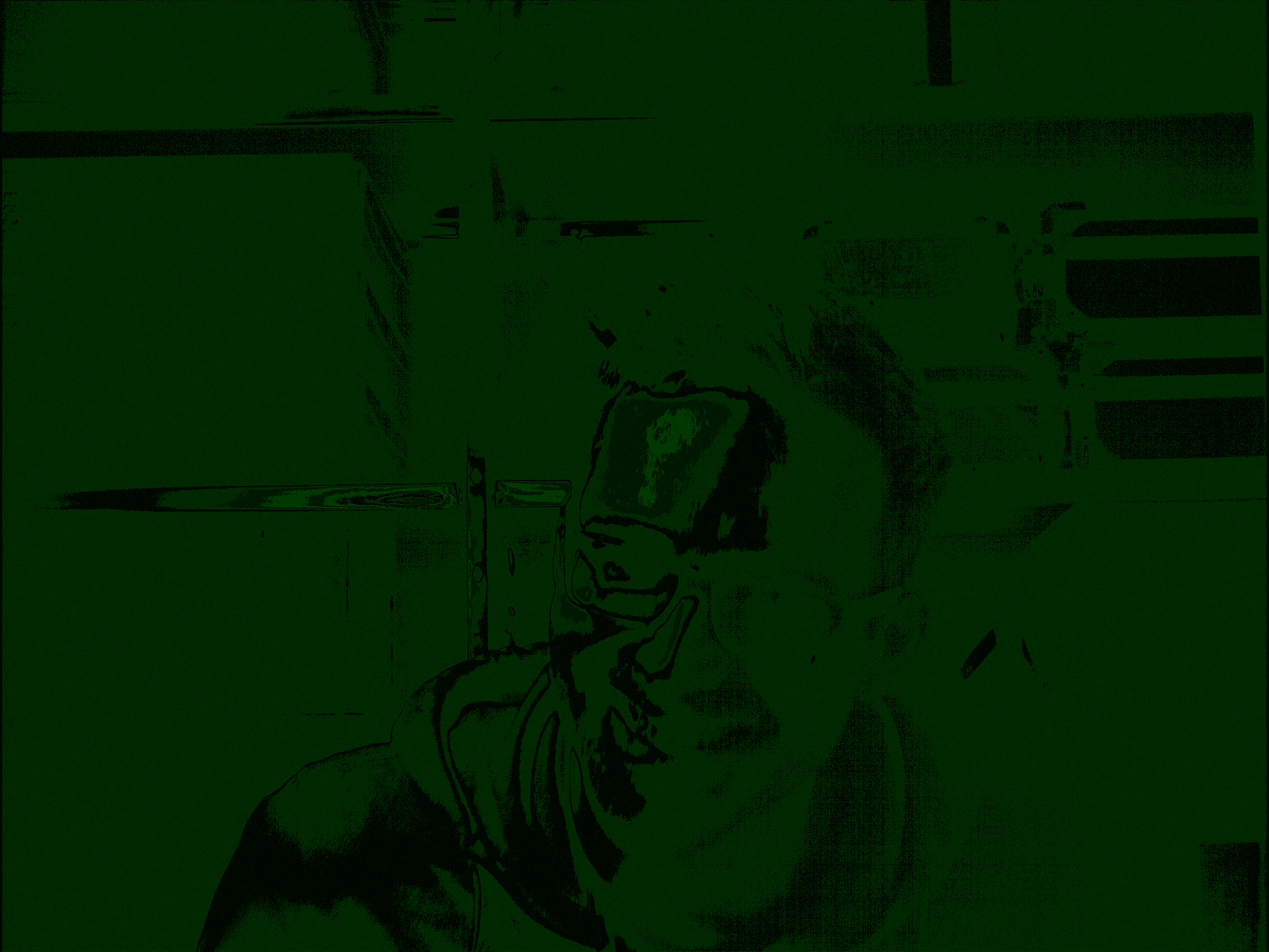
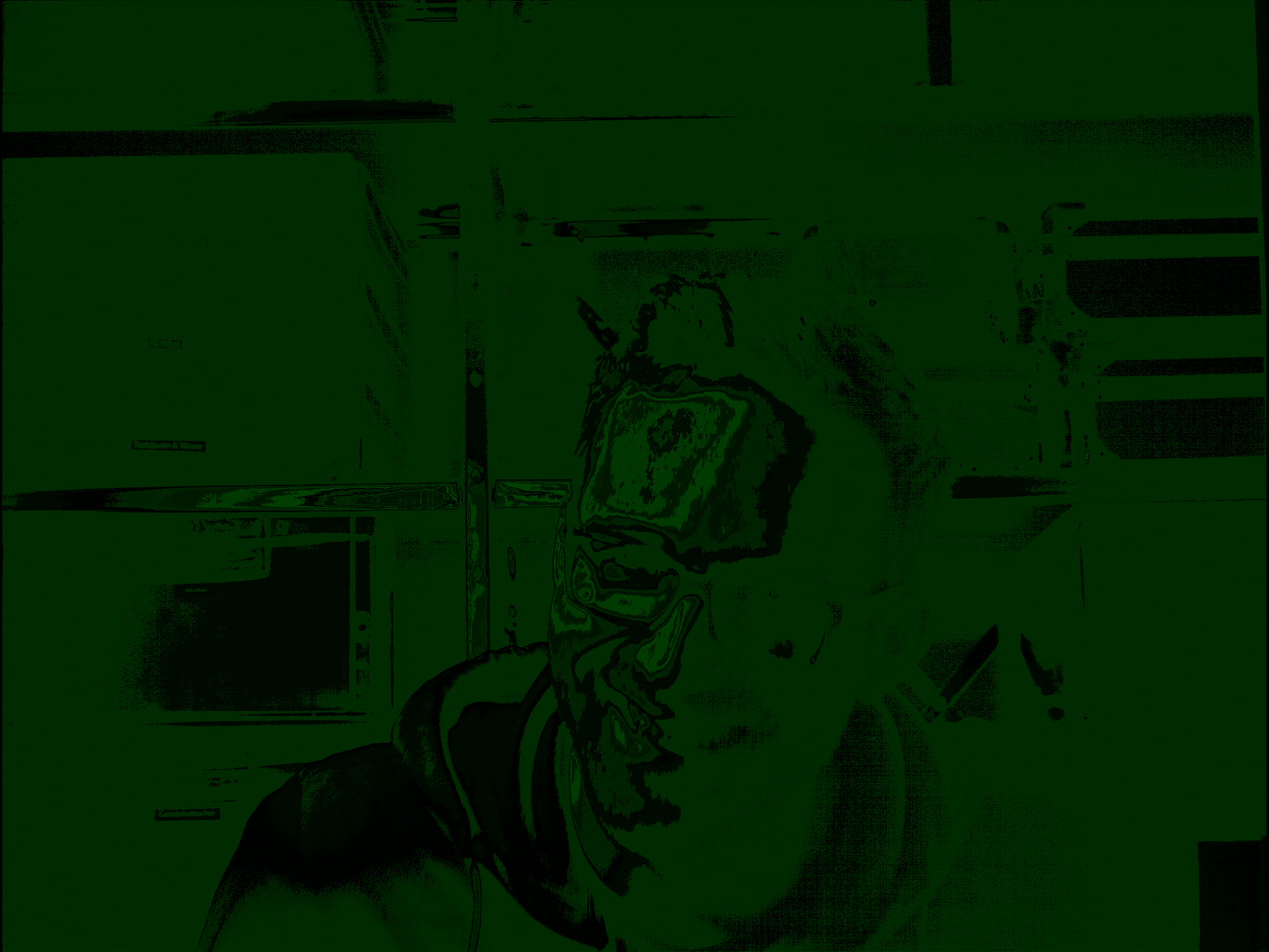
Working channel separation

diff --git a/program.cpp b/program.cpp
@@ -5,6 +5,8 @@
 #include <fstream>
 #include "LodePNG/lodepng.h"
 
+const int DIVIDING_FACTOR = 4;
+
 void encodeOneStep(const char* filename, std::vector<unsigned char>& image, unsigned width, unsigned height)
 {
   unsigned error = lodepng::encode(filename, image, width, height);
@@ -12,11 +14,11 @@ void encodeOneStep(const char* filename, std::vector<unsigned char>& image, unsi
 }
 
 int main(){
-    std::cout<<"Working"<<std::endl;
+    std::cout<<"PiNG12RAW Working... "<<std::endl;
 
     std::ifstream pFile ("test_image/test.raw12", std::ios::binary|std::ios::in);
     if (!pFile){
-      std::cout<<"Cannot open raw image file, exitiing."<<std::endl;
+      std::cout<<"Cannot open raw image file, exiting."<<std::endl;
       exit(-1);
     }
 
@@ -29,13 +31,18 @@ int main(){
     imagegreen2.resize(width * height * 4);
     imageblue.resize(width * height * 4);
 
+    std::vector<unsigned char> imageredgr, imagegreen1gr, imagegreen2gr, imagebluegr;
+    imageredgr.resize(width * height);
+    imagegreen1gr.resize(width * height);
+    imagegreen2gr.resize(width * height);
+    imagebluegr.resize(width * height);
+
     uint8_t eightbits[3];
     uint16_t left,right;
 
-    uint16_t left16bit, right16bit;
     uint8_t left8bit, right8bit;
 
-    int maxred = 0, minred = 65535;
+    // int maxred = 0, minred = 65535;
 
     for(unsigned int row = 0; row < height; row++){
       for(unsigned int col = 0; col < width/2; col++ ){
@@ -56,12 +63,10 @@ int main(){
         }
 
         //Find the bit values
-        left16bit = left8bit = right16bit = right8bit = 0;
+        left8bit = right8bit = 0;
 
-        left16bit = (left*16);
-        right16bit = (right*16);
-        left8bit = left;
-        right8bit = right;
+        left8bit = left/DIVIDING_FACTOR;
+        right8bit = right/DIVIDING_FACTOR;
 
 
         //Set the values
@@ -80,8 +85,9 @@ int main(){
           imagered[4*(i*width+j*2+1) + 2] = 0;
           imagered[4*(i*width+j*2+1) + 3] = 255;
 
-          maxred = (maxred<(int)left8bit)? (int)left8bit : maxred;
-          minred = (minred>(int)left8bit)? (int)left8bit : minred;
+          for(int k=0;k<3;k++)
+            imageredgr[4*((row/2)*width/2 +j) + k] = (int)left8bit;
+          imageredgr[4*((row/2)*width/2 +j) + 3] = 255;
 
           imagegreen1[4*(i*width+j*2) + 0] = 0;
           imagegreen1[4*(i*width+j*2) + 1] = 0;
@@ -91,6 +97,10 @@ int main(){
           imagegreen1[4*(i*width+j*2+1) + 1] = (int)right8bit;
           imagegreen1[4*(i*width+j*2+1) + 2] = 0;
           imagegreen1[4*(i*width+j*2+1) + 3] = 255;
+
+          for(int k=0;k<3;k++)
+            imagegreen1gr[4*((row/2)*width/2 +j) + k] = (int)right8bit;
+          imagegreen1gr[4*((row/2)*width/2 +j) + 3] = 255;
 
           imagegreen2[4*(i*width+j*2) + 0] = 0;
           imagegreen2[4*(i*width+j*2) + 1] = 0;
@@ -138,6 +148,10 @@ int main(){
           imagegreen2[4*(i*width+j*2+1) + 2] = 0;
           imagegreen2[4*(i*width+j*2+1) + 3] = 255;
 
+          for(int k=0;k<3;k++)
+            imagegreen2gr[4*((row/2)*width/2 +j) + k] = (int)left8bit;
+          imagegreen2gr[4*((row/2)*width/2 +j) + 3] = 255;
+
           imageblue[4*(i*width+j*2) + 0] = 0;
           imageblue[4*(i*width+j*2) + 1] = 0;
           imageblue[4*(i*width+j*2) + 2] = 0;
@@ -146,6 +160,10 @@ int main(){
           imageblue[4*(i*width+j*2+1) + 1] = 0;
           imageblue[4*(i*width+j*2+1) + 2] = (int)right8bit;
           imageblue[4*(i*width+j*2+1) + 3] = 255;
+
+          for(int k=0;k<3;k++)
+            imagebluegr[4*((row/2)*width/2 +j) + k] = (int)right8bit;
+          imagebluegr[4*((row/2)*width/2 +j) + 3] = 255;
         }
       }
     }
@@ -156,8 +174,12 @@ encodeOneStep("results/r.png", imagered, width, height);
 encodeOneStep("results/g1.png", imagegreen1, width, height);
 encodeOneStep("results/g2.png", imagegreen2, width, height);
 encodeOneStep("results/b.png", imageblue, width, height);
-std::cout<<"Maxred: "<<maxred<<" Minred: "<<minred<<" done"<<std::endl;
-
+encodeOneStep("results/r_grayscale.png", imageredgr, width/2, height/2);
+encodeOneStep("results/g1_grayscale.png", imagegreen1gr, width/2, height/2);
+encodeOneStep("results/g2_grayscale.png", imagegreen2gr, width/2, height/2);
+encodeOneStep("results/b_grayscale.png", imagebluegr, width/2, height/2);
+//std::cout<<"Maxred: "<<maxred<<" Minred: "<<minred<<" done"<<std::endl;
+std::cout<<"done. Check [results] folder for new imgs."<<std::endl;
 
 pFile.close();
 

diff --git a/README.md b/README.md
@@ -1,1 +1,14 @@
 # PiNG12RAW
+
+PiNG12RAW is a simple utility to separate RG/GB Bayer color channels to individual files. It takes in input a RAW12 file and outputs png files corresponding to different Bayer Channels.
+
+### To build/make the C++ program
+
+PiNG12RAW can be made to work easily using the following set of commands:
+```
+  chmod +x compile.sh
+  chmod +x cleanrun.sh
+  ./compile.sh
+  ./cleanrun.sh
+```
+After running these commands, one can see the debayered colored channels in `results` folder.
